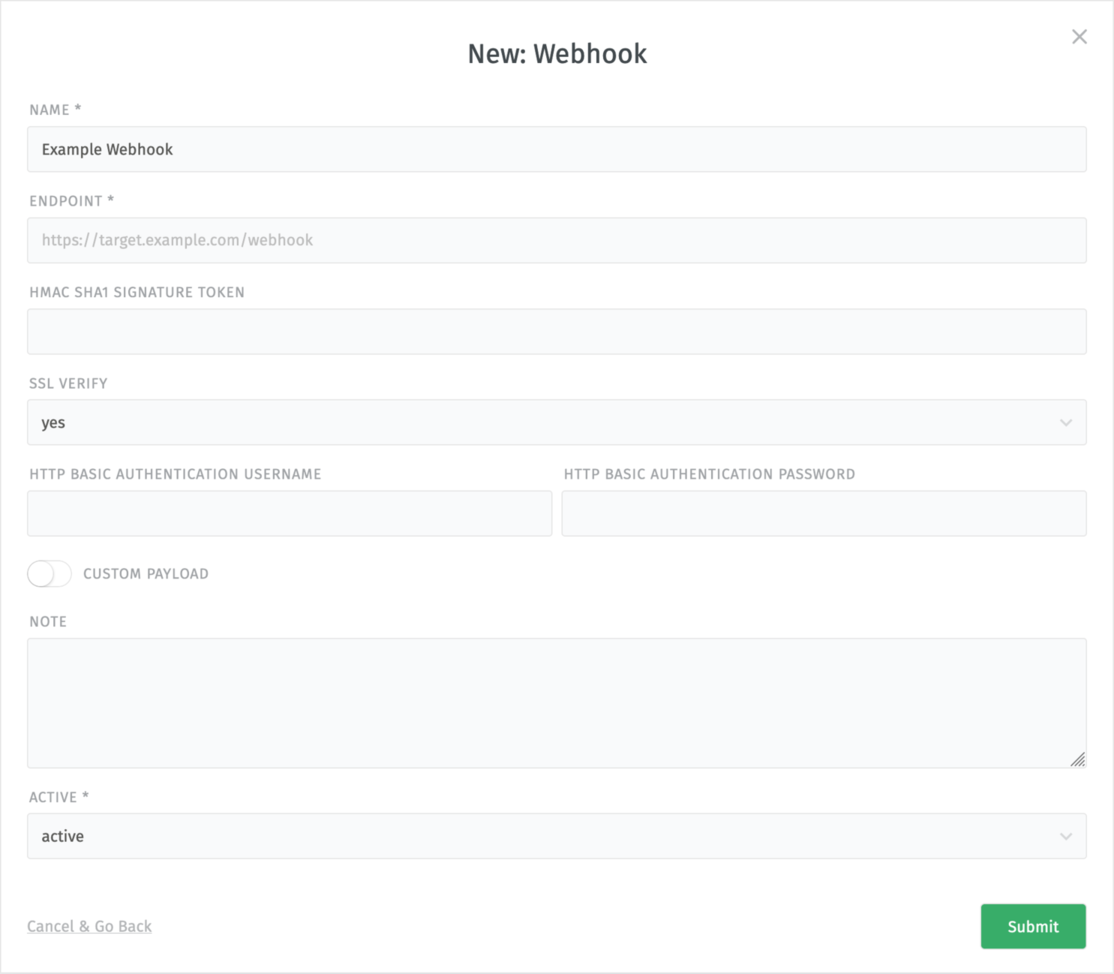
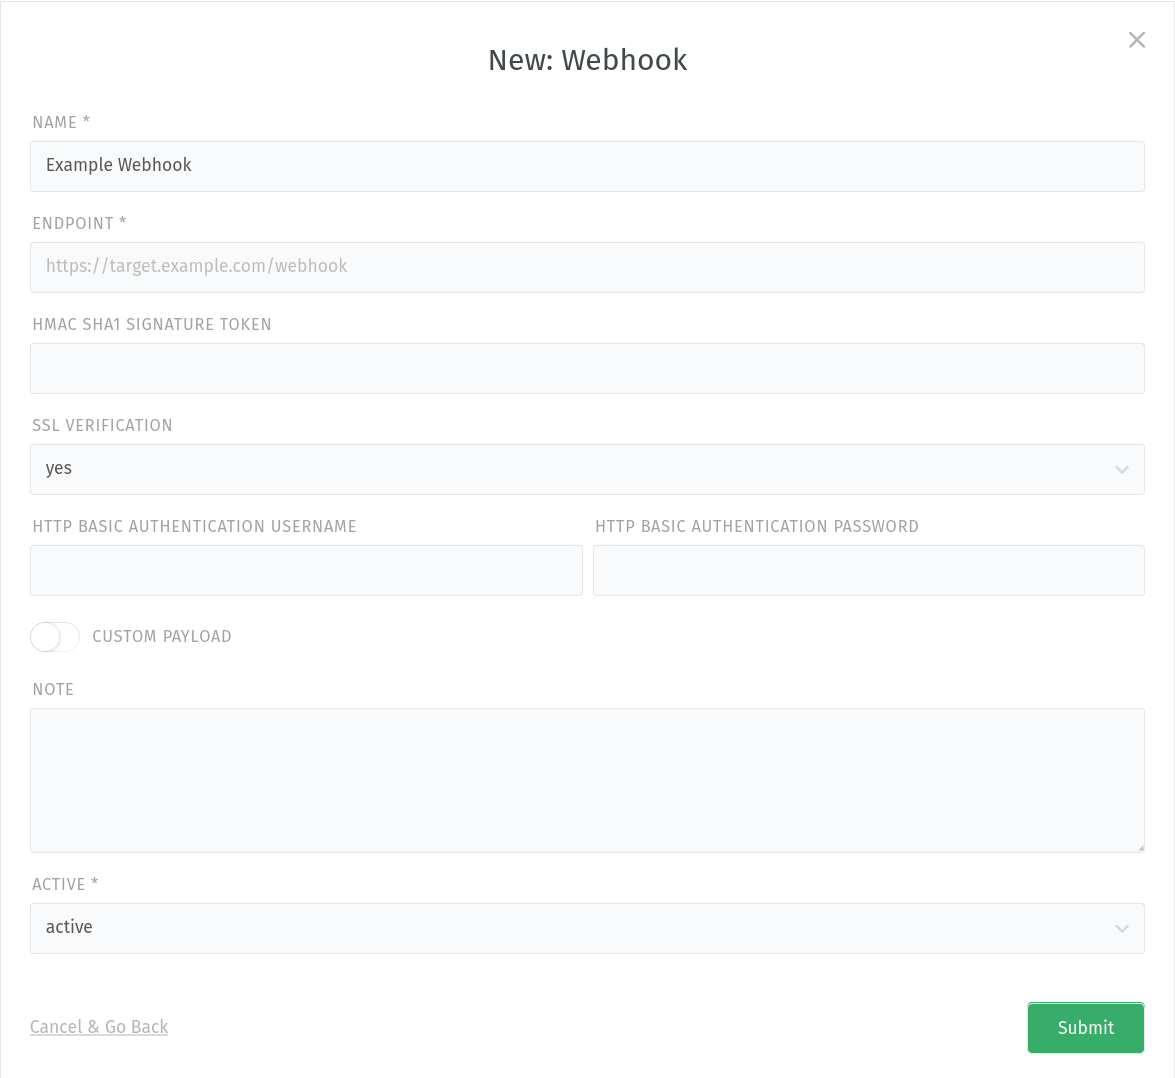
Redacted Webhook screenshot and field name

diff --git a/manage/webhook/add.rst b/manage/webhook/add.rst
@@ -67,7 +67,7 @@ You can configure the following information for webhooks:
          `Learn more about HUB-Signatures
          <https://www.w3.org/TR/websub/#authenticated-content-distribution>`_
 
-   SSL verify
+   SSL Verification
       Defaults to ``yes`` - if you're using unsecure self signed certificates
       set this option to ``no``.
 
